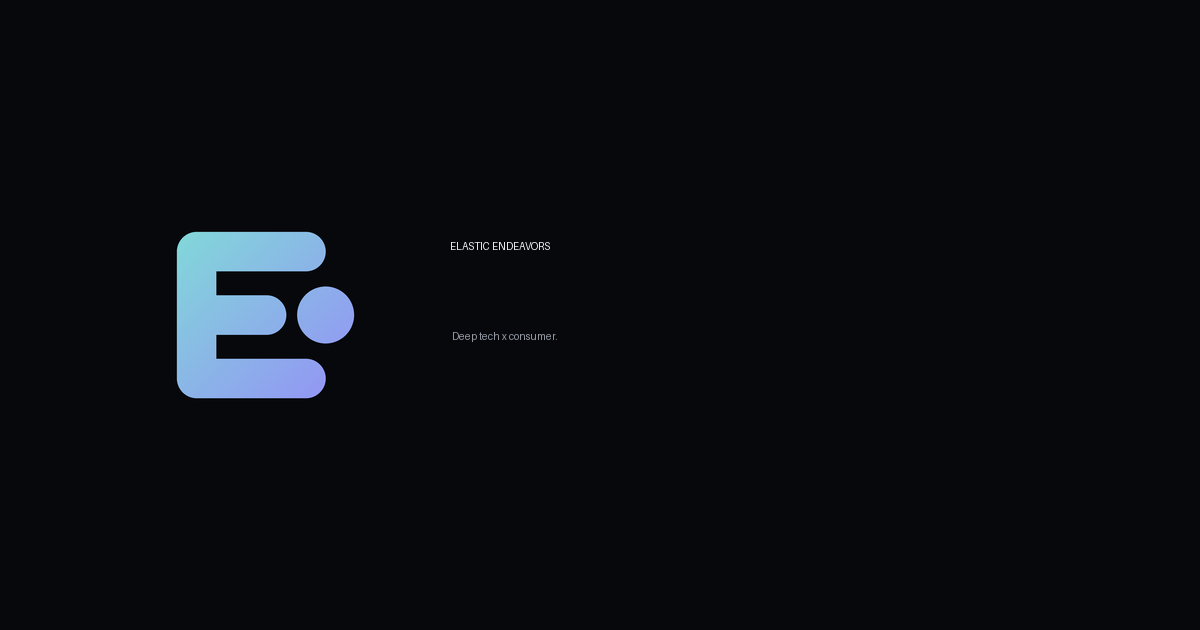
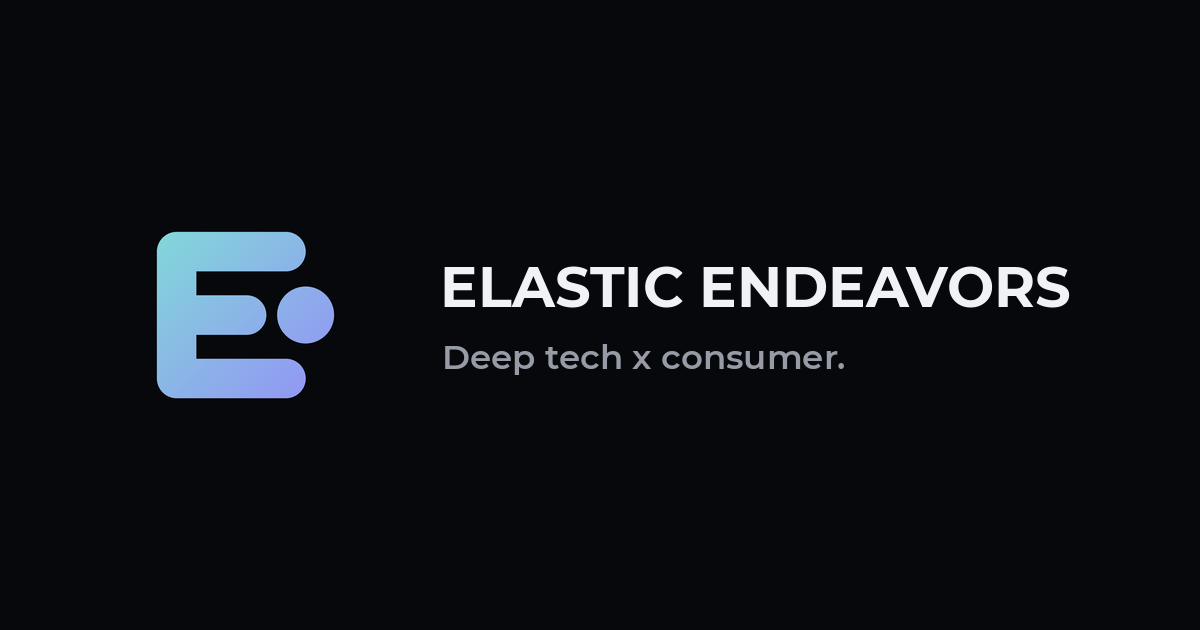
Share card typography

diff --git a/brand/gen_logo.py b/brand/gen_logo.py
@@ -31,11 +31,11 @@ if __name__=="__main__":
     mark(256).save("favicon.ico",sizes=[(16,16),(32,32),(48,48),(64,64)])
     mark(180,False).convert("RGB").save("apple-touch-icon.png")
     mark(192).save("brand/icon-192.png"); mark(512).save("brand/icon-512.png")
-    og=Image.new("RGB",(1200,630),BG); m=mark(280); og.paste(m,(120,175),m)
-    fp="/usr/share/fonts/truetype/dejavu/DejaVuSans-Bold.ttf"
-    try: f=ImageFont.truetype(fp,64); f2=ImageFont.truetype(fp.replace("-Bold",""),30)
+    og=Image.new("RGB",(1200,630),BG); m=mark(280); og.paste(m,(100,175),m)
+    fp="/home/mano/.fonts/Montserrat-Bold.ttf"
+    try: f=ImageFont.truetype(fp,56); f2=ImageFont.truetype("/home/mano/.fonts/Montserrat-SemiBold.ttf",34)
     except Exception: f=f2=ImageFont.load_default()
-    d=ImageDraw.Draw(og); d.text((450,240),"ELASTIC ENDEAVORS",font=f,fill=(240,242,245))
-    d.text((452,330),"Deep tech x consumer.",font=f2,fill=(150,155,165))
+    d=ImageDraw.Draw(og); d.text((440,252),"ELASTIC ENDEAVORS",font=f,fill=(240,242,245))
+    d.text((442,336),"Deep tech x consumer.",font=f2,fill=(150,155,165))
     og.save("brand/og.png")
     mark(16).resize((128,128),Image.NEAREST).save("/tmp/logo/check16.png")
